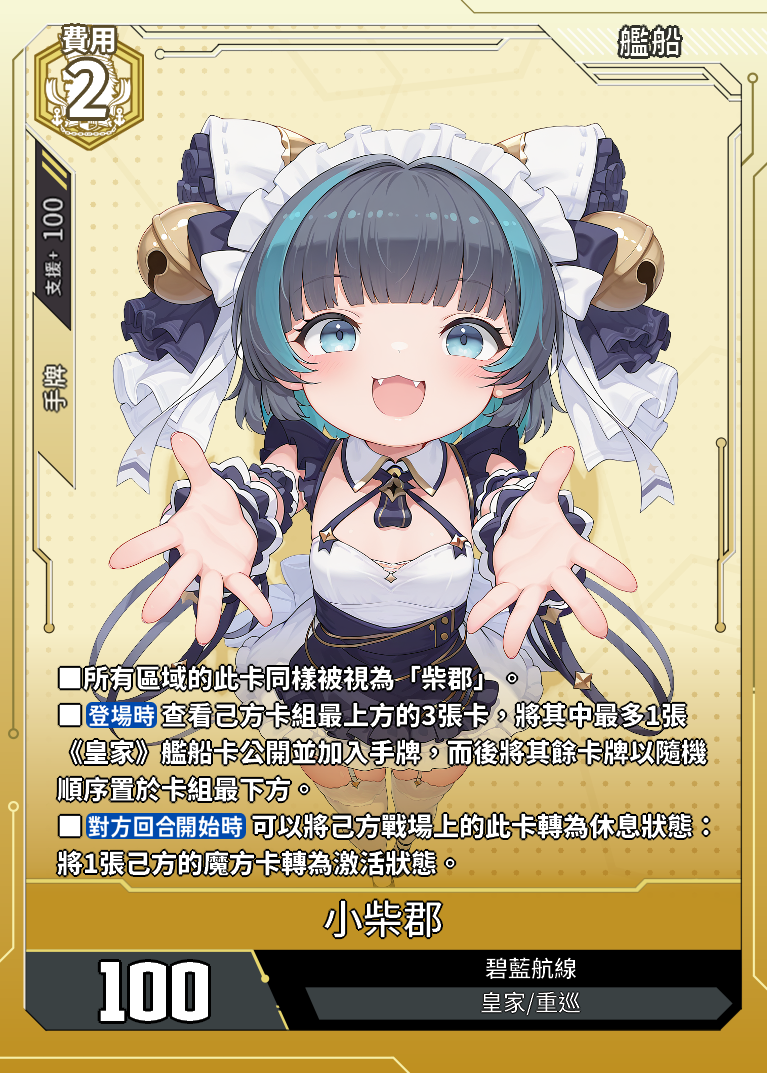
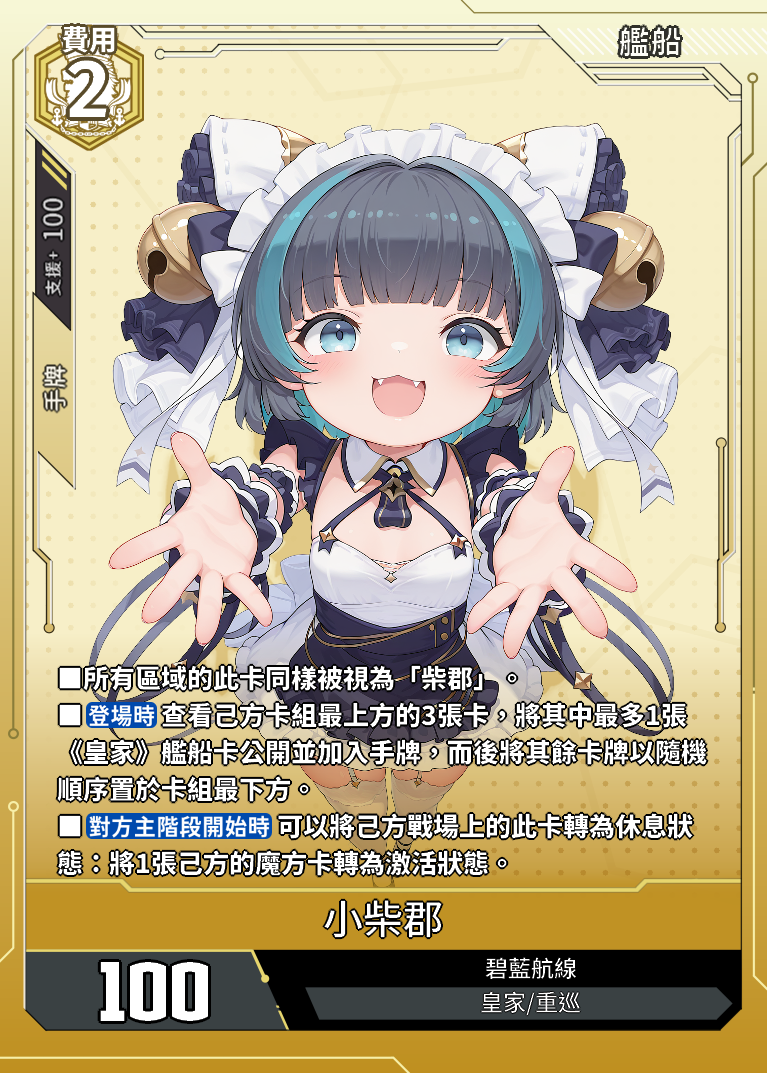
修小柴郡

Changed region(s): [[0.06, 0.7381, 0.9296, 0.8304]]

diff --git a/data.js b/data.js
@@ -24716,7 +24716,7 @@ const cards = [
             "支援範圍": "手牌",
             "支援值": "100"
         },
-        "card_effect": "■所有區域的此卡同樣被視為「柴郡」。■【登場時】查看己方卡組最上方的3張卡，將其中最多1張《皇家》艦船卡公開並加入手牌，而後將其餘卡牌以隨機順序置於卡組最下方。■【對方回合開始時】可以將己方戰場上的此卡轉為休息狀態：將1張己方的魔方卡轉為激活狀態。",
+        "card_effect": "■所有區域的此卡同樣被視為「柴郡」。■【登場時】查看己方卡組最上方的3張卡，將其中最多1張《皇家》艦船卡公開並加入手牌，而後將其餘卡牌以隨機順序置於卡組最下方。■【對方主階段開始時】可以將己方戰場上的此卡轉為休息狀態：將1張己方的魔方卡轉為激活狀態。",
         "acquisition_method": "CE02-早期測試"
     },
 	{
